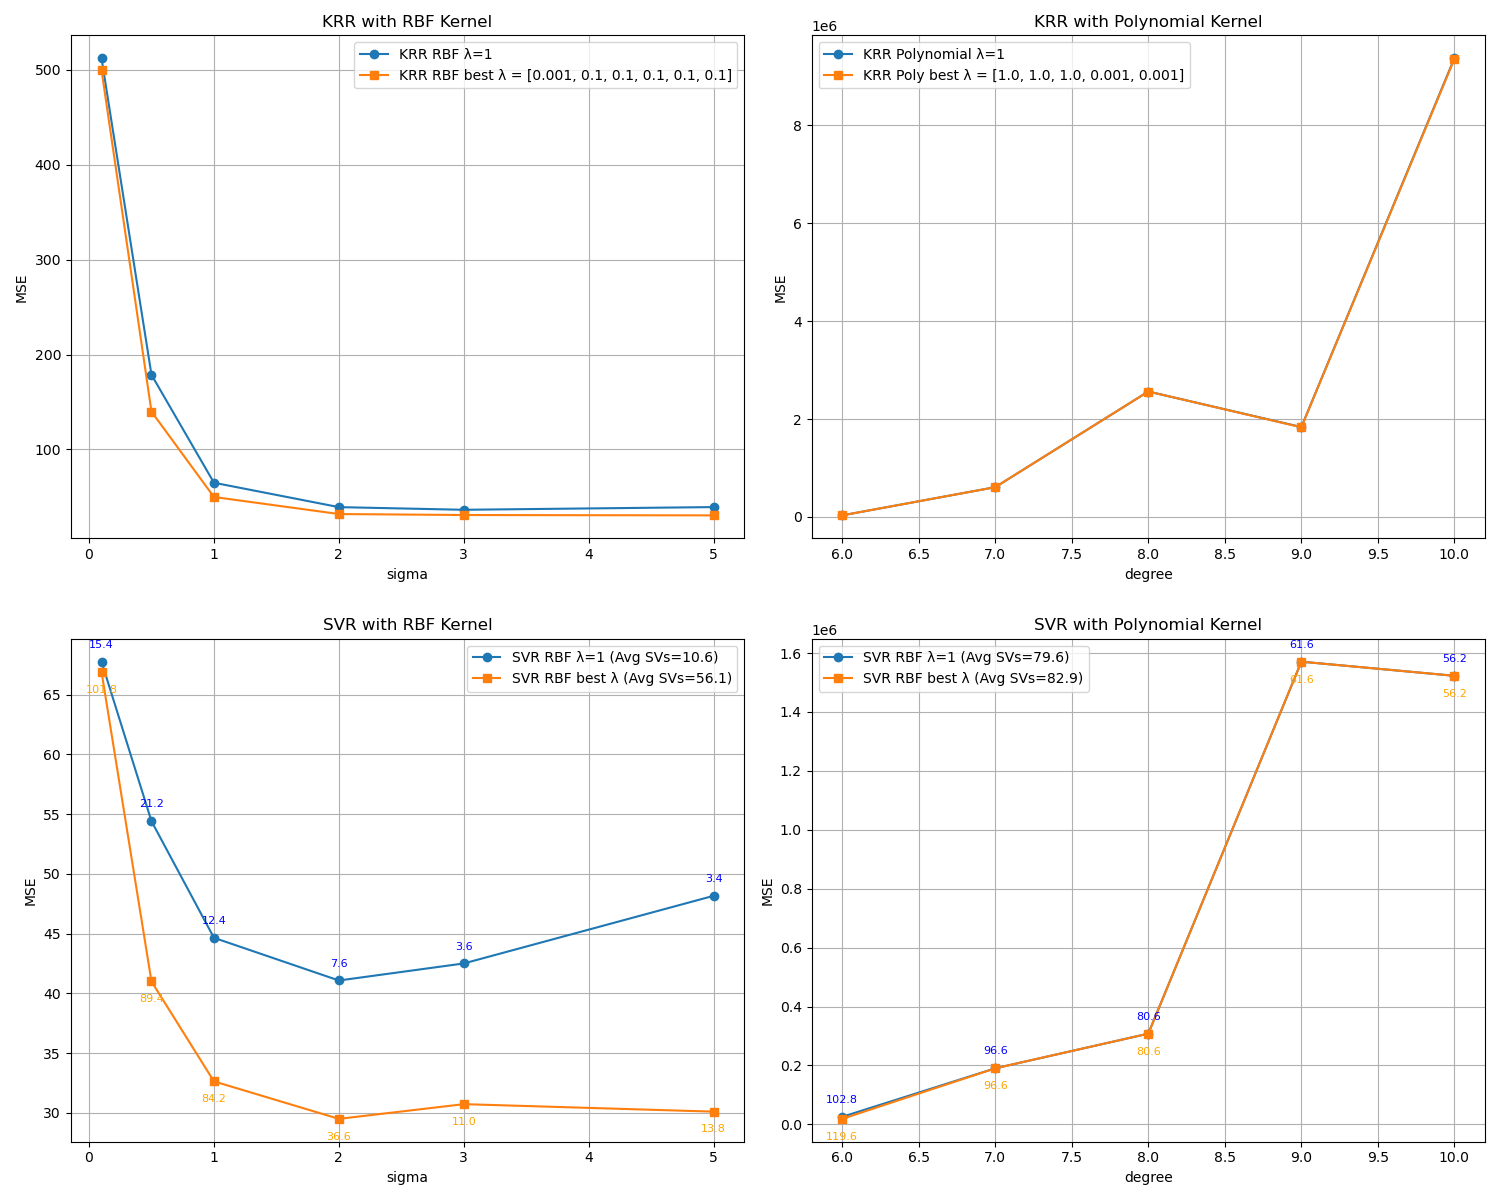
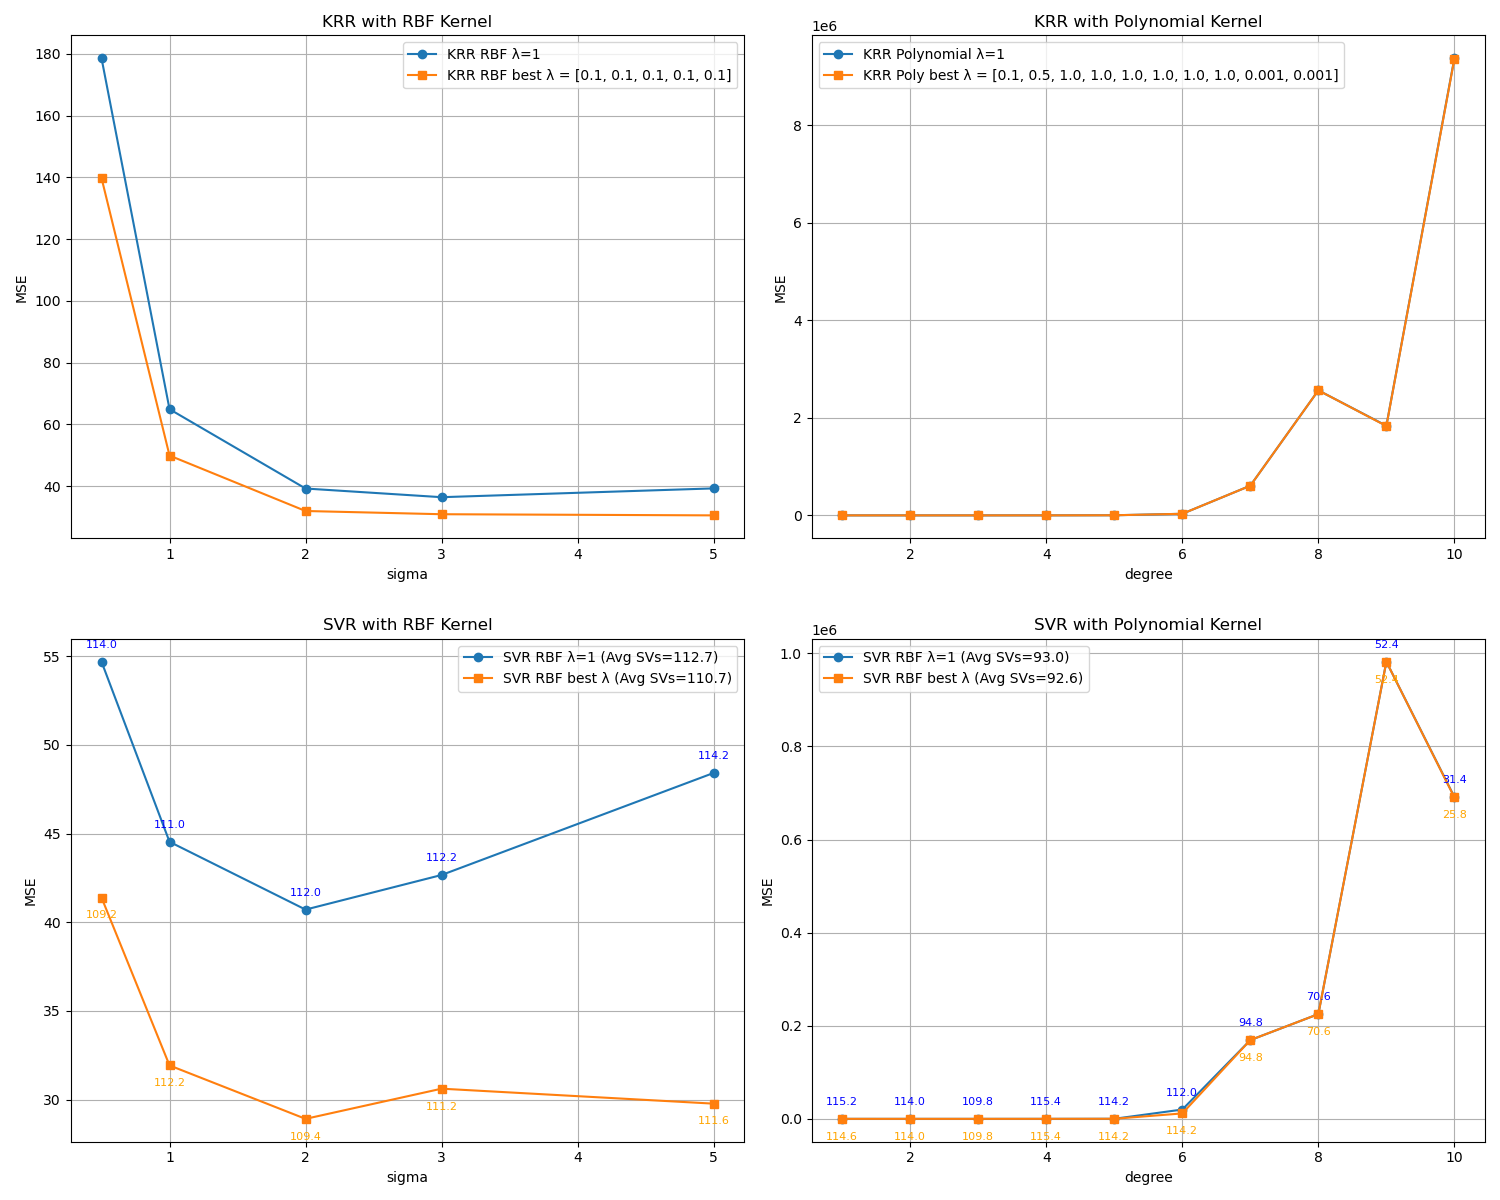
minor fix

diff --git a/Kernels/hw_kernels.py b/Kernels/hw_kernels.py
@@ -351,9 +351,9 @@ def load_housing_data():
 
 
 def nested_cv_with_plots(model_class, kernel_class, X, y, outer_cv=5, inner_cv=5,
-                         param_grid={}, model_name='', kernel_name='', plot_xlabel=''):
+                         param_grid={}, model_name=''):
 
-    epsilon = 0.001 if model_name == 'SVR' else None
+    epsilon = 0.5 if model_name == 'SVR' else None
     kernel_params = param_grid['kernel_param']
     lambdas = param_grid['lambda']
     support_vectors_lambda_1 = []
@@ -382,9 +382,8 @@ def nested_cv_with_plots(model_class, kernel_class, X, y, outer_cv=5, inner_cv=5
             outer_mse_fixed.append(mean_squared_error(y[test_idx], y_pred))
 
             if model_name == 'SVR':
-                # Use get_support_vectors() instead of manual counting
                 sv_info = model_fixed.get_support_vectors()
-                sv_counts_fixed.append(len(sv_info['indices']))  # Count SVs
+                sv_counts_fixed.append(len(sv_info['indices']))
 
         mse_lambda_1.append(np.mean(outer_mse_fixed))
         if model_name == 'SVR':
@@ -432,7 +431,6 @@ def nested_cv_with_plots(model_class, kernel_class, X, y, outer_cv=5, inner_cv=5
             outer_mse_best.append(mean_squared_error(y[test_idx], y_pred))
 
             if model_name == 'SVR':
-                # Use get_support_vectors() instead of manual counting
                 sv_info = model_best.get_support_vectors()
                 sv_counts_best.append(len(sv_info['indices']))
 
@@ -452,35 +450,35 @@ def nested_cv_with_plots(model_class, kernel_class, X, y, outer_cv=5, inner_cv=5
 
 def analyze_housing_data():
     lambda_values = [0.001, 0.01, 0.1, 0.5, 1.0]
-    sigma_values = [0.1, 0.5, 1.0, 2.0, 3.0, 5.0]
-    degree_values = [6, 7, 8, 9, 10]
+    sigma_values = [0.5, 1.0, 2.0, 3.0, 5.0]
+    degree_values = [1, 2, 3, 4, 5, 6, 7, 8, 9, 10]
 
     param_grid_rbf = {'kernel_param': sigma_values, 'lambda': lambda_values}
     param_grid_poly = {'kernel_param': degree_values, 'lambda': lambda_values}
 
     X, y = load_housing_data()
-    scaler = StandardScaler()
-    X = scaler.fit_transform(X)
 
     X_train, X_test, y_train, y_test = train_test_split(X, y, test_size=0.2, random_state=42)
+
+    scaler = StandardScaler()
     X_train = scaler.fit_transform(X_train)
     # X_test = scaler.transform(X_test)
 
     results_rbf_KRR = nested_cv_with_plots(KernelizedRidgeRegression, lambda s: RBF(sigma=s), X_train, y_train,
                                             param_grid=param_grid_rbf,
-                                            model_name='KRR', kernel_name='RBF', plot_xlabel='sigma')
+                                            model_name='KRR')
 
     results_poly_KRR = nested_cv_with_plots(KernelizedRidgeRegression, lambda d: Polynomial(M=d), X_train, y_train,
                                             param_grid=param_grid_poly,
-                                            model_name='KRR', kernel_name='Polynomial', plot_xlabel='degree')
+                                            model_name='KRR')
 
     results_rbf_SVR = nested_cv_with_plots(SVR, lambda s: RBF(sigma=s), X_train, y_train,
                                            param_grid=param_grid_rbf,
-                                           model_name='SVR', kernel_name='RBF', plot_xlabel='sigma')
+                                           model_name='SVR')
 
     results_poly_SVR = nested_cv_with_plots(SVR, lambda d: Polynomial(M=d), X_train, y_train,
                                             param_grid=param_grid_poly,
-                                            model_name='SVR', kernel_name='Polynomial', plot_xlabel='degree')
+                                            model_name='SVR')
 
     fig, axes = plt.subplots(2, 2, figsize=(15, 12))
 
@@ -555,5 +553,5 @@ def analyze_housing_data():
 
 if __name__ == "__main__":
     # plot_sine_regression_demo()
-    plot_sine_regression_demo_sklearn()
-    # analyze_housing_data()
+    # plot_sine_regression_demo_sklearn()
+    analyze_housing_data()
